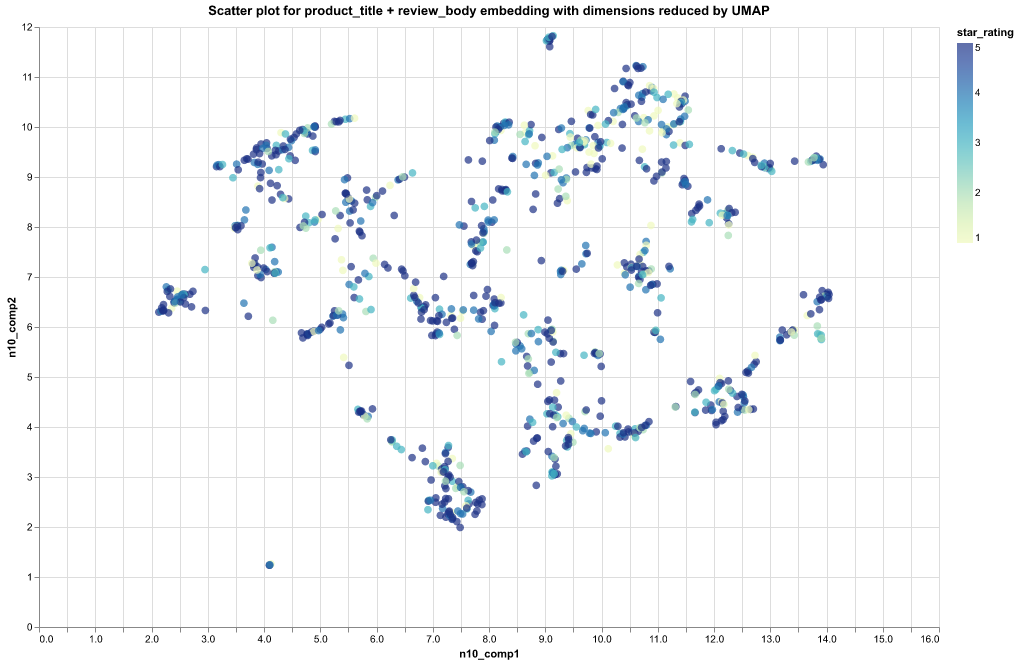
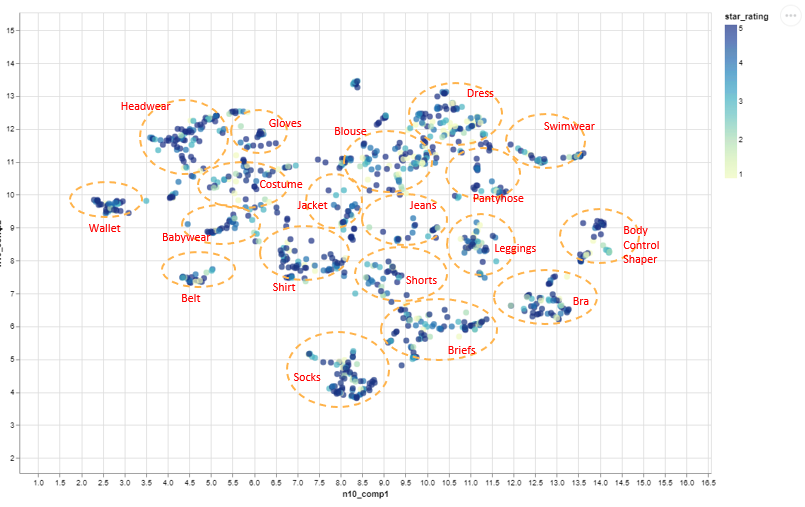
Added unsupervised analysis

diff --git a/resources/doc/REPORT.md b/resources/doc/REPORT.md
@@ -189,16 +189,36 @@ We have come up with 3 strategies for calculating the product level similarity s
 
    #### Design the formula for adjustment with opposite query 
 
-   After investigating the search results sorted by distance_opposite in descending order, we found that while top portions are really far away from the opposite query, their contents were not most relevant to the original search query. This means we cannot just adding the reciprocal of the opposite query distance as a penalty term (we want to penalize reviews closer to the opposite query thus taking reciprocal) since this would potentially overboost those product_title + review_body that are actually not relevant to the product search.
+   After investigating the search results sorted by distance_opposite in descending order, we found that while top portions are really far away from the opposite query, their contents were not most relevant to the original search query **(Figure 3)**. This means we cannot just adding the reciprocal of the opposite query distance as a penalty term (we want to penalize reviews closer to the opposite query thus taking reciprocal) since this would potentially overboost those `product_title + review_body` that are actually not relevant to the product search.
+
+   <figure>
+    <img src="https://github.com/gen-exody/nes/blob/master/resources/img/opposite_query_top5.png?raw=true" alt="Top 5 results sorted by distance_opposite in descending order"/>
+    <figcaption>Figure 3: Top 5 results sorted by distance_opposite in descending order</figcaption>
+   </figure>  
    
    We came up with 2 strategies to handle this issue. 
-   - We have introduced a clipping mechanism where we flatten  certain portions of the top ranked (descending order) opposite query distances.Through testing with different samples, we have decided to clip the top 10 percentile for our implementation. The idea can be illustrated by Figure x below.
+   - We have introduced a clipping mechanism where we flatten certain portions of the top ranked (descending order) opposite query distances. Through testing with different samples, we have decided to clip the top 10 percentile for our implementation. The idea is illustrated by **Figure 4** below.
    - We have added weight to the penalty term which has been set to 0.5 in our implementation.  
+
+   <figure>
+    <img src="https://github.com/gen-exody/nes/blob/master/resources/img/clipping.png?raw=true" alt="Clipping"/>
+    <figcaption>Figure 4: Distance before and after clipping (highlighted in red) </figcaption>
+   </figure>
 
    The finalized formula for the adjusted distance is shown below. 
 
       $$Adjusted Distance =  \operatorname{clip} f(D_{original}) + K\times\frac{1}{D_{opposite}}$$
-   where $D_{original}$ is the cosine distance of the original query, $D_{opposite} is the cosine distance of the opposite query, and $K$ is the weight of the penality term.
+   where $D_{original}$ is the cosine distance of the original query, $D_{opposite}$ is the cosine distance of the opposite query, and $K$ is the weight of the penality term.
+
+## Unsupervised Data Analysis  
+
+Apart from designing and building the ranking algorithm, we also conducted an unsupervised data analysis over our development dataset. The objective was to identify product types in the dataset in order to support the construction of the product search queries for development and  result evaluation. 
+
+We firstly used [Uniform Manifold Approximation and Projection (UMAP)](https://umap-learn.readthedocs.io/en/latest/index.html) for Dimension Reduction to reduce the product_title dimension from 1,536 to 2. UMAP is a non-linear dimension reduction technique which can provide more optimized separation for 2-dimensions when compared to PCA. 
+
+In preparing the below scatter plot of the 2 dimensions, we colored the dots with the star_rating values. This field contains 1-5 star rating of the review. More diverging colors within a product type can hit a higher chance of having contradicting reviews, which might mean more suitable for us to construct the queries for development and evaluation.
+
+
 
 
 
